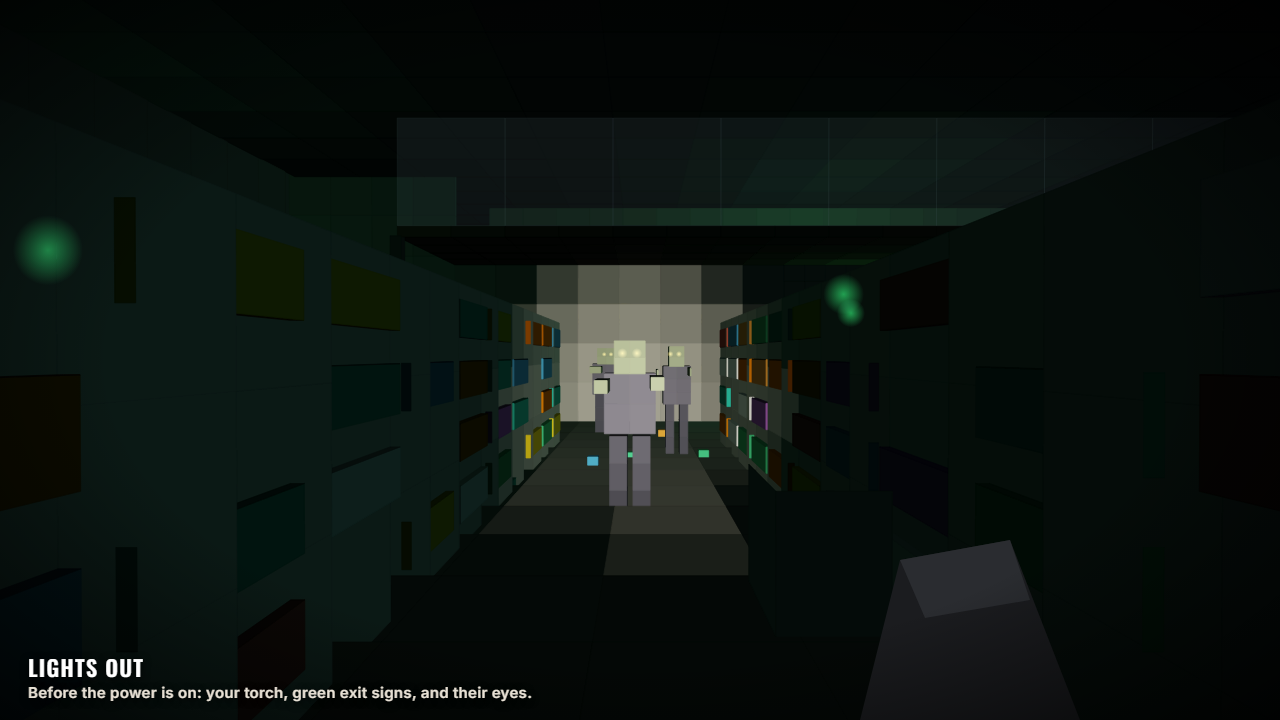
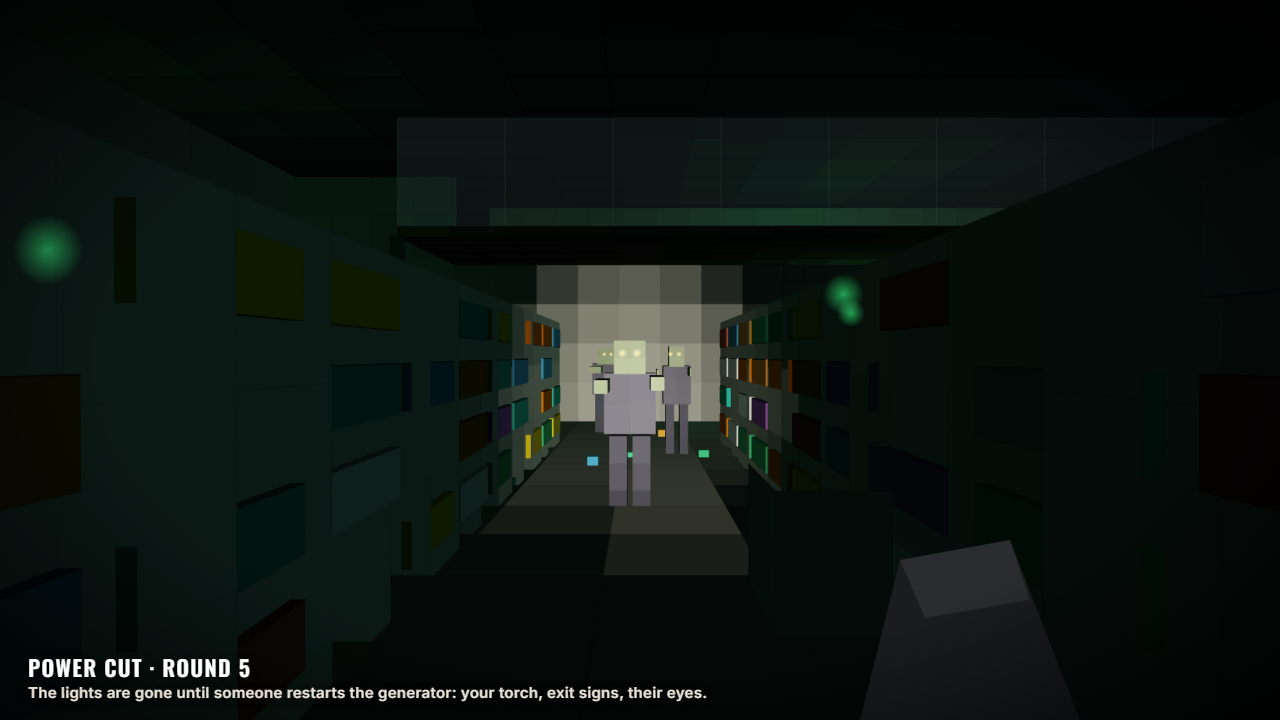
Store renders: lights on rounds 1-4, power cut at round 5

Changed region(s): [[0.0, 0.9167, 0.5625, 0.9778]]

diff --git a/design/store.html b/design/store.html
@@ -161,7 +161,7 @@ const views = {
     const eye = V(8.5, 1.6, -9);
     withRaw(sc, () => spot(sc, V(8.7, 1.45, -9.2), V(-0.02, -0.06, -1), '#fff4dc', 7, 14, 13));
     const cam = camera(eye, V(8.5, 1.5, -24), 700, W, H, 1);
-    return render(sc, cam, gunModel() + vignette(W, H, 0.92)) + caption('Lights out', 'Before the power is on: your torch, green exit signs, and their eyes.');
+    return render(sc, cam, gunModel() + vignette(W, H, 0.92)) + caption('Power cut · round 5', 'The lights are gone until someone restarts the generator: your torch, exit signs, their eyes.');
   },
 
   lit() {
@@ -169,7 +169,7 @@ const views = {
     store(sc, { powered: true });
     zombie(sc, 8.4, 0, -16, 1, 0, 0.3); zombie(sc, 9.1, 0, -20.5, 1, 0.2, 0.1); zombie(sc, 7.8, 0, -23.5, 1, -0.2, 0);
     const cam = camera(V(8.5, 1.6, -9), V(8.5, 1.5, -24), 700, W, H, 1);
-    return render(sc, cam, gunModel() + vignette(W, H, 0.6)) + caption('Power on', 'Strip lights snap on aisle by aisle. Same aisle, same three zombies.');
+    return render(sc, cam, gunModel() + vignette(W, H, 0.6)) + caption('Rounds 1 to 4', 'Mains power: learn the store while you can see it. Same aisle, same three zombies.');
   },
 
   overview() {
